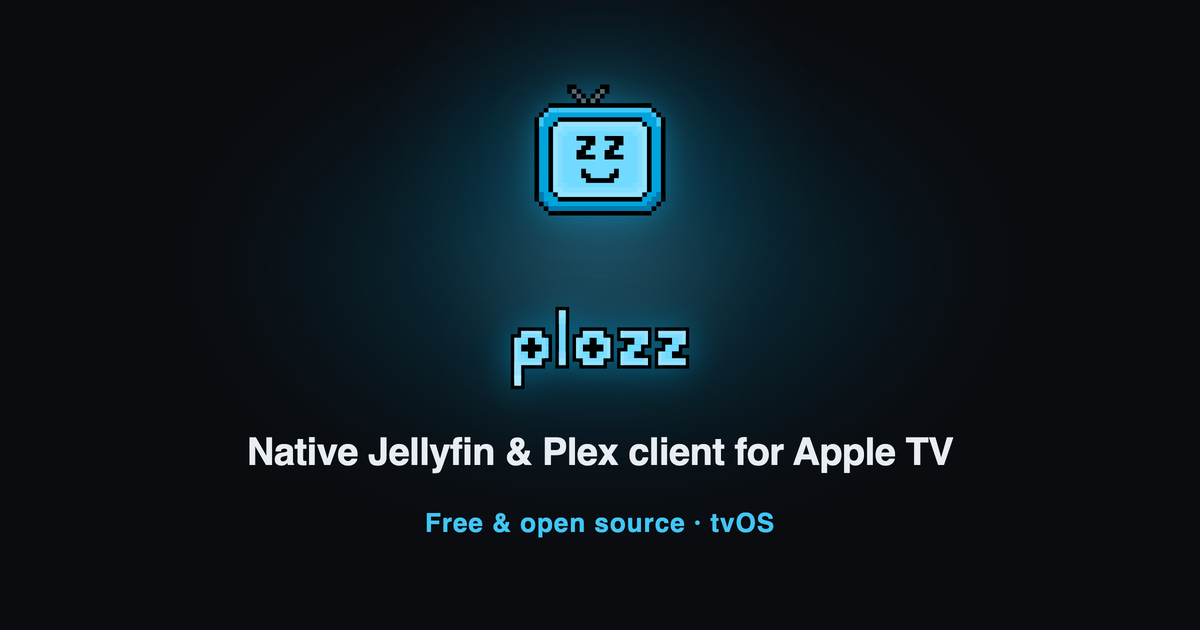
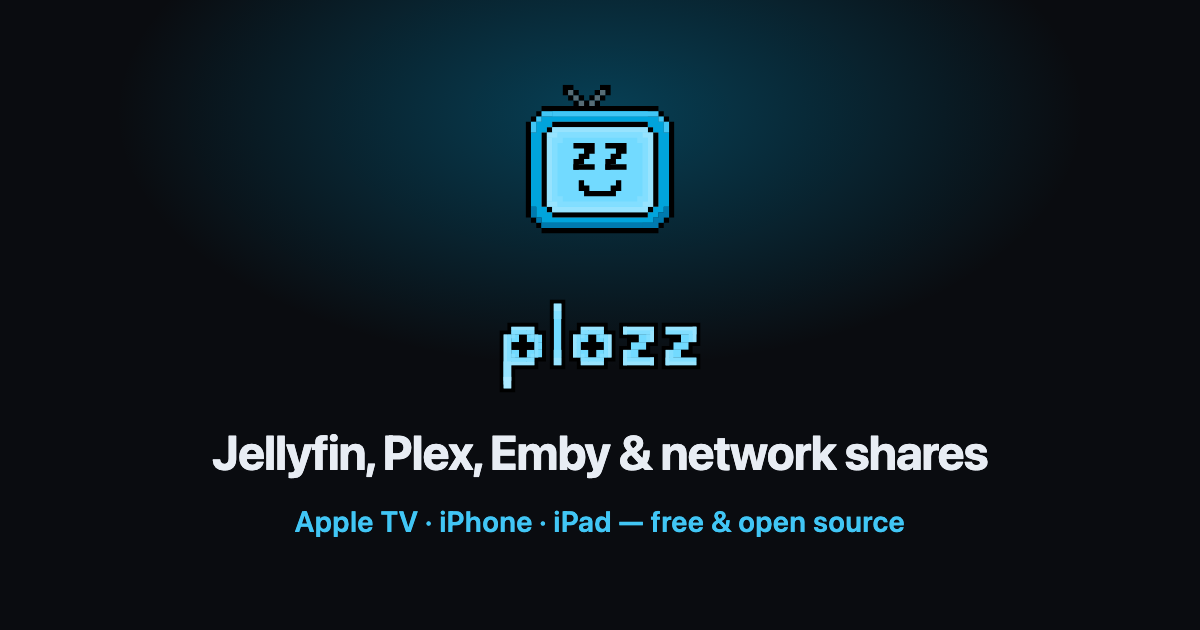
Correct the share card and title: not Apple TV only, and network shares count
public/og-image.png is what Slack, iMessage, X and LinkedIn actually show, and
it still read "Native Jellyfin & Plex client for Apple TV / Free & open source ·
tvOS". Three things were wrong with that. Emby has been a first-class source
with its own page. So have network shares — SMB, NFS, WebDAV, SFTP and FTP, the
one feature that lets people skip a media server entirely. And the app has run
on iPhone and iPad for a while, so "tvOS" undersold it to every person who saw
the link before they saw the site.

The card was hand-rendered and then only ever hand-patched, which is why it
drifted. public/og-image.svg sitting beside it had drifted differently again —
different artwork, different words, no relationship to the PNG being served.
Both are outputs now, built by tools/build-og.mjs from the same logo.svg and
plozz-wordmark.svg the site itself uses, so changing the logo can no longer
leave a stale copy in the share card. `node tools/build-og.mjs --check`
re-renders and fails if what is committed has gone stale.

Rendering goes through headless Chrome rather than librsvg or ImageMagick,
because the card sets its type in the system UI font and both of those quietly
resolve -apple-system to a default serif instead of failing.

The default <title> had the same Apple-TV-only problem and now names all three
devices. og:image:alt and twitter:image:alt described a card that no longer
exists, so they are derived from one constant next to the image they describe.
[…]

diff --git a/README.md b/README.md
@@ -1,7 +1,8 @@
 # plozz.app
 
 The marketing website for **[Plozz](https://github.com/thatcube/Plozz)** — a free,
-open-source Apple TV app for Jellyfin & Plex.
+open-source player for Jellyfin, Plex, Emby and network shares, on Apple TV,
+iPhone and iPad.
 
 Live at **[plozz.app](https://plozz.app)**.
 
@@ -40,6 +41,23 @@ Connected to this repo. On every push to `main`, Cloudflare builds and deploys a
 - Replace `TESTFLIGHT_URL` in that file with the public TestFlight invite link.
 - Styles are in [`src/styles/global.css`](src/styles/global.css).
 - Static assets (logo, social card, headers) are in [`public/`](public/).
+
+### Social share card
+
+`public/og-image.png` and `public/og-image.svg` are **generated**, not edited by
+hand — an earlier hand-patched card went on advertising a Jellyfin-and-Plex
+tvOS-only app long after that stopped being true. Both are built from the live
+`logo.svg` and `plozz-wordmark.svg`, so a logo change can't leave a stale one in
+the share card.
+
+```bash
+npm run og           # rewrite both files
+node tools/build-og.mjs --check   # fail if the committed pair is stale
+```
+
+The wording lives in `COPY` at the top of
+[`tools/build-og.mjs`](tools/build-og.mjs); keep it in step with the default
+title and description in [`src/layouts/Layout.astro`](src/layouts/Layout.astro).
 
 ## License
 
